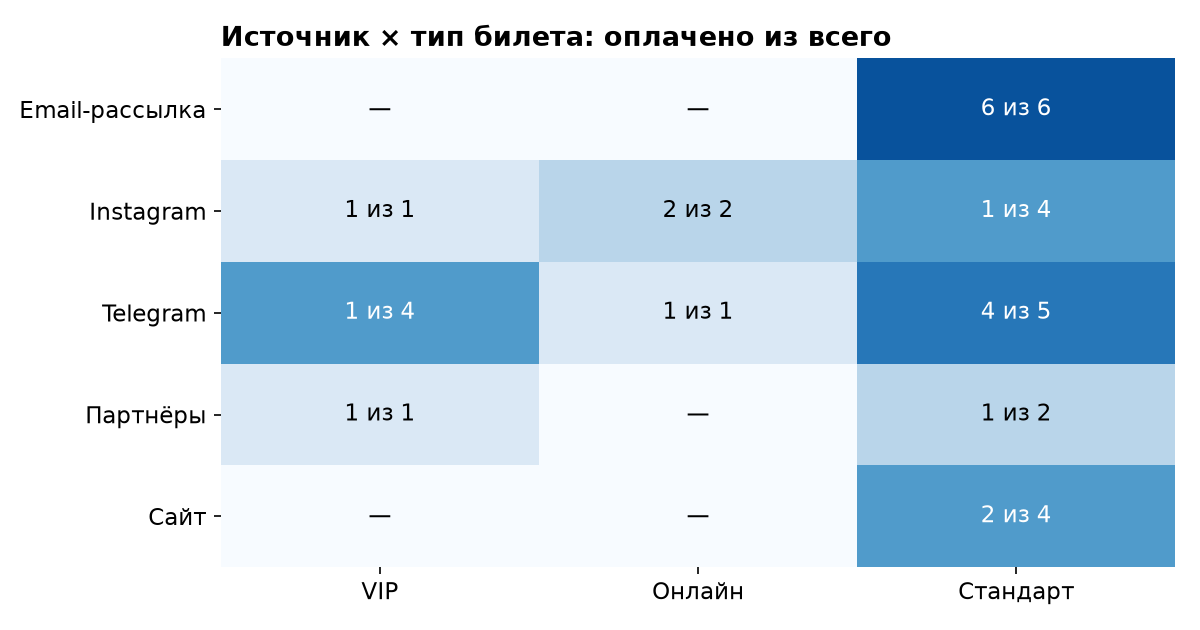
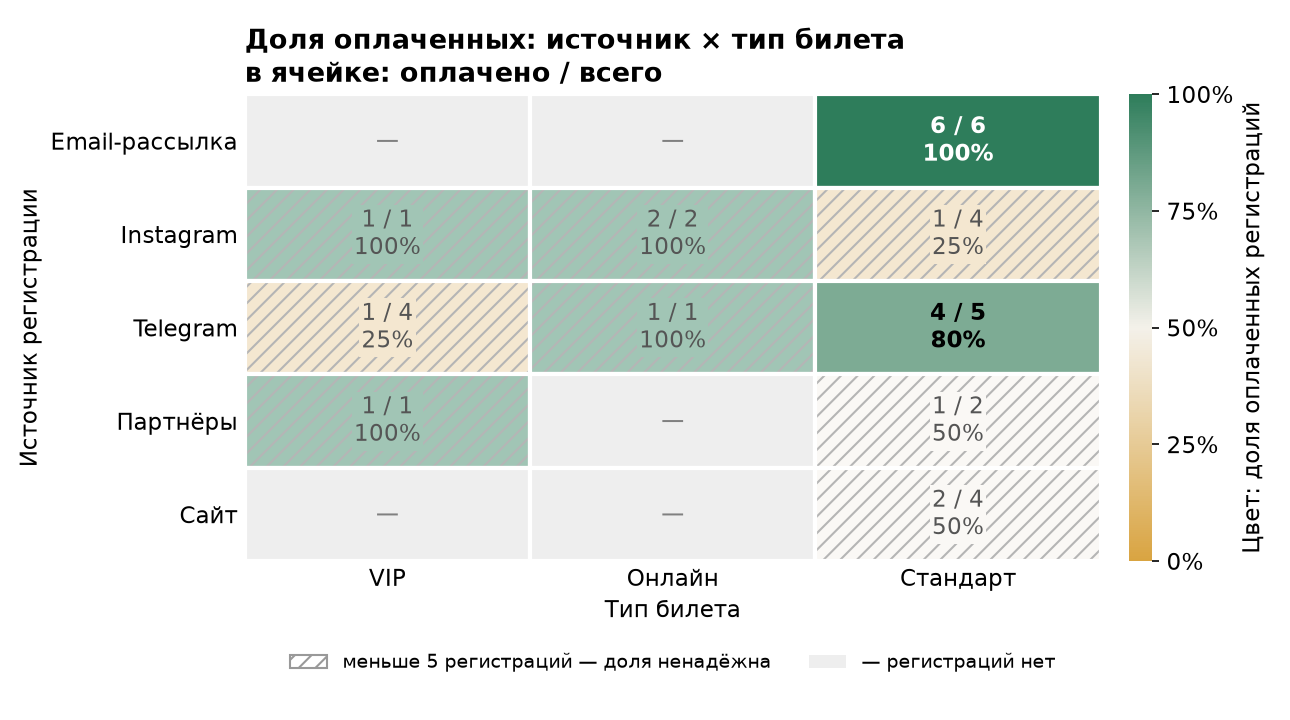
Add city x month analysis and recolor source x ticket heatmap by paid share
- analysis.py: compute paid share by city and city group per registration
  month, build charts/city_month.png; heatmap color now encodes paid share,
  cells with fewer than 5 registrations are faded and hatched.
- report.md: new "Города × месяц регистрации" subsection, refined
  conclusions on the regional gap, heatmap reading guide, and a section
  listing fixes made after the audit.

diff --git a/analysis.py b/analysis.py
@@ -94,6 +94,32 @@ for label, part in [("до 1 ноября", df[df["registered"] < cut]), ("с 1 
 print("\nНеоплаченные регистрации:\n", df[~df["is_paid"]][["name", "city", "registered", "source", "ticket"]]
       .sort_values("registered").to_string(index=False))
 
+# ------------------------------------------- город × месяц регистрации
+MONTHS = {10: "Октябрь", 11: "Ноябрь"}
+CITY_GROUPS = {"Астана": "Астана + Алматы", "Алматы": "Астана + Алматы",
+               "Караганда": "Караганда + Шымкент", "Шымкент": "Караганда + Шымкент",
+               "Актобе": "Актобе"}
+GROUP_ORDER = ["Астана + Алматы", "Караганда + Шымкент", "Актобе"]
+unknown_month = set(df["registered"].dt.month) - set(MONTHS)
+assert not unknown_month, f"В данных есть месяцы вне октября/ноября: {unknown_month}"
+assert set(df["city"]) <= set(CITY_GROUPS), "Есть город без группы в CITY_GROUPS"
+df["month"] = df["registered"].dt.month.map(MONTHS)
+df["city_group"] = df["city"].map(CITY_GROUPS)
+
+
+def month_table(col: str) -> pd.DataFrame:
+    g = df.groupby([col, "month"])["is_paid"].agg(всего="size", оплачено="sum")
+    g["доля_оплат_%"] = (g["оплачено"] / g["всего"] * 100).round(1)
+    return g
+
+
+print("\n=== ГОРОД × МЕСЯЦ РЕГИСТРАЦИИ ===")
+city_month = month_table("city")
+group_month = month_table("city_group")
+print(city_month.to_string())
+print("\nГруппы городов × месяц:\n", group_month.to_string())
+print("\nМесяц в целом:\n", df.groupby("month")["is_paid"].agg(всего="size", оплачено="sum").to_string())
+
 # ---------------------------------------------------------------- графики
 PAID_C, UNPAID_C = "#2e7d5b", "#d9a441"
 plt.rcParams.update({"font.size": 11, "axes.spines.top": False, "axes.spines.right": False})
@@ -148,20 +174,83 @@ fig.tight_layout()
 fig.savefig(CHARTS / "timeline.png", dpi=150)
 plt.close(fig)
 
-# тепловая карта источник x билет
+from matplotlib.cm import ScalarMappable
+from matplotlib.colors import LinearSegmentedColormap, Normalize, to_rgb
+from matplotlib.patches import Patch, Rectangle
+
+# оплата по группам городов: октябрь и ноябрь
+fig, axes = plt.subplots(1, 2, figsize=(9, 3.2), sharey=True, sharex=True)
+xmax = group_month["всего"].max()
+for ax, month in zip(axes, MONTHS.values()):
+    for i, grp in enumerate(GROUP_ORDER[::-1]):
+        if (grp, month) in group_month.index:
+            r = group_month.loc[(grp, month)]
+            tot, pd_ = int(r["всего"]), int(r["оплачено"])
+            ax.barh(i, pd_, color=PAID_C)
+            ax.barh(i, tot - pd_, left=pd_, color=UNPAID_C)
+            ax.text(tot + 0.2, i, f"{pd_} из {tot} ({pd_ / tot:.0%})", va="center", fontsize=10)
+        else:
+            ax.text(0.2, i, "нет регистраций", va="center", fontsize=10, color="gray")
+    ax.set_yticks(range(len(GROUP_ORDER)), GROUP_ORDER[::-1])
+    ax.set_xlim(0, xmax * 1.5)
+    ax.set_title({"Октябрь": "Зарегистрировались в октябре",
+                  "Ноябрь": "Зарегистрировались в ноябре"}[month], loc="left", fontsize=11)
+    ax.set_xlabel("Регистрации")
+fig.legend(handles=[Patch(color=PAID_C, label="оплачено"), Patch(color=UNPAID_C, label="не оплачено")],
+           loc="lower right", ncol=2, frameon=False, bbox_to_anchor=(0.99, 0.0))
+fig.suptitle("Доля оплат по группам городов в зависимости от месяца регистрации",
+             x=0.01, ha="left", fontweight="bold")
+fig.text(0.01, 0.01, "Подпись: оплачено из всего (доля). Группы малы, проценты неустойчивы.",
+         fontsize=9, color="gray")
+fig.tight_layout(rect=(0, 0.06, 1, 1))
+fig.savefig(CHARTS / "city_month.png", dpi=150)
+plt.close(fig)
+
+# тепловая карта источник x билет: цвет = доля оплаченных
+MIN_N = 5  # при меньшем числе регистраций доля считается ненадёжной
 ct = pd.crosstab(df["source"], df["ticket"])
 cp = pd.crosstab(df["source"], df["ticket"], values=df["is_paid"], aggfunc="sum").fillna(0).astype(int)
-fig, ax = plt.subplots(figsize=(8, 4.2))
-ax.imshow(ct.values, cmap="Blues", aspect="auto", vmin=0, vmax=ct.values.max() * 1.15)
-ax.set_xticks(range(ct.shape[1]), ct.columns)
-ax.set_yticks(range(ct.shape[0]), ct.index)
+pay_cmap = LinearSegmentedColormap.from_list("pay", [UNPAID_C, "#f4f1ea", PAID_C])
+norm = Normalize(0, 1)
+fig, ax = plt.subplots(figsize=(8.6, 4.8))
 for i in range(ct.shape[0]):
     for j in range(ct.shape[1]):
-        v = ct.values[i, j]
-        txt = "—" if v == 0 else f"{cp.values[i, j]} из {v}"
-        ax.text(j, i, txt, ha="center", va="center", color="white" if v > ct.values.max() / 2 else "black")
-ax.set_title("Источник × тип билета: оплачено из всего", loc="left", fontweight="bold")
+        v, p = int(ct.values[i, j]), int(cp.values[i, j])
+        if v == 0:
+            ax.add_patch(Rectangle((j - .5, i - .5), 1, 1, facecolor="#eeeeee", edgecolor="white", lw=2))
+            ax.text(j, i, "—", ha="center", va="center", color="gray")
+            continue
+        rgb = to_rgb(pay_cmap(norm(p / v)))
+        small = v < MIN_N
+        if small:  # бледнее и со штриховкой: доля по 1–4 регистрациям ненадёжна
+            rgb = tuple(c * 0.45 + 0.55 for c in rgb)
+        ax.add_patch(Rectangle((j - .5, i - .5), 1, 1, facecolor=rgb, edgecolor="none"))
+        if small:
+            ax.add_patch(Rectangle((j - .5, i - .5), 1, 1, fill=False, edgecolor="#b5b5b5", lw=0, hatch="///"))
+        ax.add_patch(Rectangle((j - .5, i - .5), 1, 1, fill=False, edgecolor="white", lw=2))
+        dark = not small and (p / v > 0.8 or p / v < 0.15)
+        ax.text(j, i, f"{p} / {v}\n{p / v:.0%}", ha="center", va="center",
+                color="white" if dark else ("#555555" if small else "black"),
+                fontweight="normal" if small else "bold",
+                bbox=dict(facecolor=rgb, edgecolor="none", pad=1) if small else None)
+ax.set_xlim(-.5, ct.shape[1] - .5)
+ax.set_ylim(ct.shape[0] - .5, -.5)
+ax.set_xticks(range(ct.shape[1]), ct.columns)
+ax.set_yticks(range(ct.shape[0]), ct.index)
+ax.set_xlabel("Тип билета")
+ax.set_ylabel("Источник регистрации")
+ax.tick_params(length=0)
 ax.spines[:].set_visible(False)
+cb = fig.colorbar(ScalarMappable(norm, pay_cmap), ax=ax, fraction=0.05, pad=0.03)
+cb.set_label("Цвет: доля оплаченных регистраций")
+cb.set_ticks([0, .25, .5, .75, 1], labels=["0%", "25%", "50%", "75%", "100%"])
+cb.outline.set_visible(False)
+ax.legend(handles=[Patch(facecolor="white", edgecolor="#999999", hatch="///",
+                         label=f"меньше {MIN_N} регистраций — доля ненадёжна"),
+                   Patch(facecolor="#eeeeee", label="— регистраций нет")],
+          loc="upper center", bbox_to_anchor=(0.5, -0.16), ncol=2, frameon=False, fontsize=9)
+ax.set_title("Доля оплаченных: источник × тип билета\nв ячейке: оплачено / всего",
+             loc="left", fontweight="bold")
 fig.tight_layout()
 fig.savefig(CHARTS / "source_ticket.png", dpi=150)
 plt.close(fig)

diff --git a/report.md b/report.md
@@ -2,6 +2,7 @@
 
 **Источник данных:** `registrations.csv`, 30 регистраций с 20 октября по 13 ноября 2026 года.
 **Как получены цифры:** все показатели и графики считает скрипт [`analysis.py`](analysis.py) (`py analysis.py`). Исходный CSV только читается и не меняется.
+**Отчёт обновлён после критического аудита:** что изменилось, описано в разделе 11.
 
 > **Важно про объём данных.** В файле всего 30 строк. Во многих группах по 2–6 человек, поэтому одна регистрация меняет процент оплат на 15–50 пунктов. Различия в отчёте показывают, куда стоит посмотреть, но статистически доказанными закономерностями их считать нельзя.
 
@@ -11,7 +12,7 @@
 
 - **30 регистраций, из них 20 оплачены (67%)**, 10 не оплачены (33%).
 - **Астана и Алматы дают 2/3 регистраций** (20 из 30) и **75% оплаченных** (15 из 20).
-- **Караганда и Шымкент платят заметно хуже:** оплачено 3 из 8 регистраций (38%).
+- **Караганда и Шымкент в целом платят заметно хуже:** оплачено 3 из 8 регистраций (38%). **Но этот разрыв наблюдается только среди октябрьских регистраций.** В октябре Астана + Алматы оплатили 8 из 8, а Караганда + Шымкент 1 из 6. В ноябре картина обратная: 7 из 12 против 2 из 2. Разрыв может быть связан со временем регистрации, а не только с городом (раздел 3).
 - **Telegram — самый массовый источник** (10 регистраций), но оплатили только 60%.
 - **Email-рассылка — самый надёжный источник:** оплачены все 6 регистраций из 6.
 - **Чаще всего берут билет «Стандарт»** (70% регистраций). VIP оплачен только в половине случаев.
@@ -77,6 +78,41 @@
 
 - Неоплаченные в Караганде и Шымкенте не новые: все 5 зарегистрировались с 21 по 30 октября.
 - Актобе: 100% оплат, но это всего 2 человека.
+
+### Города × месяц регистрации
+
+Общие цифры по городам складываются из двух разных месяцев, и в каждом месяце картина своя.
+
+![Города по месяцам](charts/city_month.png)
+
+**По группам городов:**
+
+| Группа | Октябрь: оплачено / всего | Доля оплат | Ноябрь: оплачено / всего | Доля оплат | Всего за период |
+|---|---|---|---|---|---|
+| Астана + Алматы | 8 / 8 | **100%** | 7 / 12 | **58%** | 15 / 20 (75%) |
+| Караганда + Шымкент | 1 / 6 | **17%** | 2 / 2 | **100%** | 3 / 8 (38%) |
+| Актобе | 1 / 1 | 100% | 1 / 1 | 100% | 2 / 2 (100%) |
+| **Все города** | **10 / 15** | **67%** | **10 / 15** | **67%** | 20 / 30 (67%) |
+
+**По отдельным городам:**
+
+| Город | Октябрь: оплачено / всего | Ноябрь: оплачено / всего |
+|---|---|---|
+| Астана | 4 / 4 | 5 / 8 |
+| Алматы | 4 / 4 | 2 / 4 |
+| Караганда | 0 / 3 | 2 / 2 |
+| Шымкент | 1 / 3 | нет регистраций |
+| Актобе | 1 / 1 | 1 / 1 |
+
+Октябрь — регистрации с 20 по 31 октября, ноябрь — с 1 по 13 ноября (данных за 1 ноября нет, поэтому граница та же, что и в разделе 2).
+
+**Что видно:**
+- **В октябре и ноябре наблюдаются разные картины оплаты.** Среди октябрьских регистраций Астана + Алматы оплатили всё (8 из 8), а Караганда + Шымкент только 1 из 6. Среди ноябрьских всё наоборот: в Астане + Алматы оплачено 7 из 12, в Караганде оба ноябрьских участника оплатили (2 из 2).
+- **Общий разрыв «75% против 38%» может быть связан со временем регистрации, а не только с городом.** Почти весь разрыв даёт одна группа: 5 неоплаченных октябрьских регистраций из Караганды и Шымкента. В ноябре наблюдается различие в другую сторону.
+- **В Караганде все три октябрьские регистрации не оплачены, обе ноябрьские оплачены.** Такая резкая смена может быть связана с чем-то, что происходило именно в октябре (конкретная кампания или партнёр, способ оплаты, не обновлённый статус `paid`). По этим данным причину установить нельзя, это требует дополнительной проверки.
+- **Ноябрьские неоплаты в Астане и Алматы (5 из 12) частично могут объясняться тем, что люди ещё не успели оплатить:** даты оплаты в файле нет, а последние регистрации сделаны 8 и 13 ноября.
+- **Группы маленькие** (от 1 до 12 регистраций в ячейке), поэтому проценты неустойчивы: одна регистрация меняет долю на 8–100 пунктов. Различия показывают, где искать, но не доказывают закономерность.
+- **Что стоит проверить:** что происходило с регистрациями в Караганде и Шымкенте в октябре (источник, кампания, способ оплаты) и актуален ли у этих 5 человек статус `paid`.
 
 ---
 
@@ -157,6 +193,8 @@
 
 ![Источник и тип билета](charts/source_ticket.png)
 
+**Как читать график:** цвет ячейки показывает **долю оплаченных регистраций** (зелёный — ближе к 100%, светлый — около 50%, жёлто-оранжевый — ближе к 0%). В ячейке написано «оплачено / всего» и доля. Ячейки, где меньше 5 регистраций, сделаны бледными и заштрихованными: доля в них ненадёжна, одна регистрация меняет её на 25–100 пунктов. Таких ячеек большинство, полноцветных только две (Email-рассылка × Стандарт и Telegram × Стандарт). «—» означает, что регистраций нет.
+
 | Источник | VIP (оплачено/всего) | Онлайн | Стандарт |
 |---|---|---|---|
 | Email-рассылка | — | — | 6 / 6 |
@@ -202,9 +240,9 @@
 
 1. **Email-рассылка — единственный источник без неоплат** (6 из 6). Это люди, которые уже знакомы с организаторами, и они платят лучше всего.
 2. **Telegram приводит много людей, в том числе на VIP, но VIP оттуда почти не оплачивают** (1 из 4).
-3. **Есть региональный разрыв:** Астана и Алматы платят в 75% случаев, Караганда и Шымкент в 38%, и их неоплаты «зависли» с октября.
+3. **Есть региональный разрыв, но он может быть связан со временем регистрации:** в целом Астана и Алматы платят в 75% случаев, Караганда и Шымкент в 38%. Однако разрыв наблюдается только среди октябрьских регистраций (100% против 17%), а в ноябре картина обратная (58% против 100%). Неоплаты Караганды и Шымкента «зависли» с октября. Чем это вызвано — городом, октябрьской кампанией или чем-то ещё, — требует дополнительной проверки.
 4. **Регистрации сосредоточены в неделе 2–8 ноября**, с пиком 7 ноября (5 регистраций, все оплачены). После 8 ноября поток почти остановился.
-5. **Время регистрации не связано с оплатой:** в обеих половинах периода оплачено по 67%. Но поздние неоплаты пока могут объясняться тем, что люди ещё не успели заплатить.
+5. **В целом доля оплат по месяцам одинаковая, но внутри групп городов она разная:** в обеих половинах периода оплачено по 67%, однако это совпадение двух противоположных изменений (в Астане + Алматы доля оплат в ноябре ниже, в Караганде + Шымкенте выше, раздел 3). Поэтому из равенства 67% нельзя делать вывод, что время регистрации не связано с оплатой. Поздние неоплаты пока могут объясняться тем, что люди ещё не успели заплатить.
 
 ---
 
@@ -243,3 +281,20 @@
 5. **Понять, что сработало 7 ноября,** и выяснить, почему после 8 ноября поток почти остановился. В данных ответа нет, нужно сверить с графиком публикаций и рассылок.
 6. **Улучшить сбор данных к следующему разу:** добавить email/телефон (для поиска дублей и напоминаний), цену билета, дату оплаты и UTM-метку кампании, а также договориться, что значит город у онлайн-участников.
 7. **Перепроверить выводы на большей выборке:** все различия выше основаны на 30 регистрациях и могут оказаться случайными.
+
+---
+
+## 11. Что исправлено после критического аудита
+
+После первой версии отчёта был проведён критический аудит. В этой версии исправлены две из найденных проблем. Остальные замечания аудита пока не исправлены.
+
+**1. Добавлен анализ «город × месяц регистрации» (замечание B1 аудита).**
+- *Что было не так:* города сравнивались только в целом за весь период. Из-за этого не было видно, что разрыв между Астаной + Алматы и Карагандой + Шымкентом наблюдается только среди октябрьских регистраций, а в ноябре картина обратная.
+- *Что сделано:* в раздел 3 добавлен подраздел «Города × месяц регистрации» с таблицами по группам городов и по отдельным городам, а также график [`charts/city_month.png`](charts/city_month.png). Выводы в резюме (раздел 1) и в пунктах 3 и 5 раздела 8 уточнены: разрыв между городами может быть связан со временем регистрации, а равенство 67% в октябре и ноябре не означает, что время не связано с оплатой.
+- Расчёт добавлен в `analysis.py`: скрипт печатает таблицы «город × месяц» и «группа городов × месяц» и строит новый график.
+
+**2. Переделана тепловая карта «Источник × тип билета» (замечание E1 аудита).**
+- *Что было не так:* цвет ячеек показывал число регистраций, а подписи — оплату. Ячейка «1 из 4» (VIP из Telegram) была тёмной и выглядела как успех, хотя это одна из худших долей оплат.
+- *Что сделано:* в [`charts/source_ticket.png`](charts/source_ticket.png) цвет теперь показывает долю оплаченных регистраций (шкала 0–100% подписана справа). В ячейке указано «оплачено / всего» и доля. Ячейки, где меньше 5 регистраций, бледные и заштрихованы, чтобы маленькие группы не выглядели надёжными. Подписаны оси и пояснение под графиком.
+
+Все новые цифры пересчитаны скриптом из `registrations.csv` и вручную сверены с исходными строками. Сам `registrations.csv` не изменялся.
